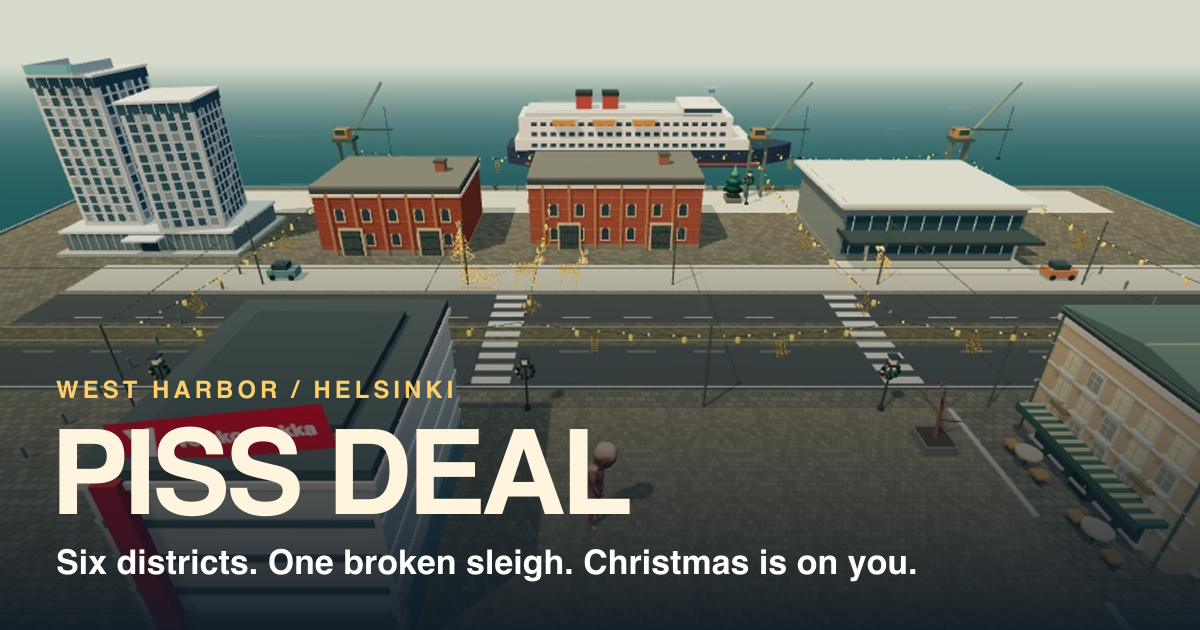
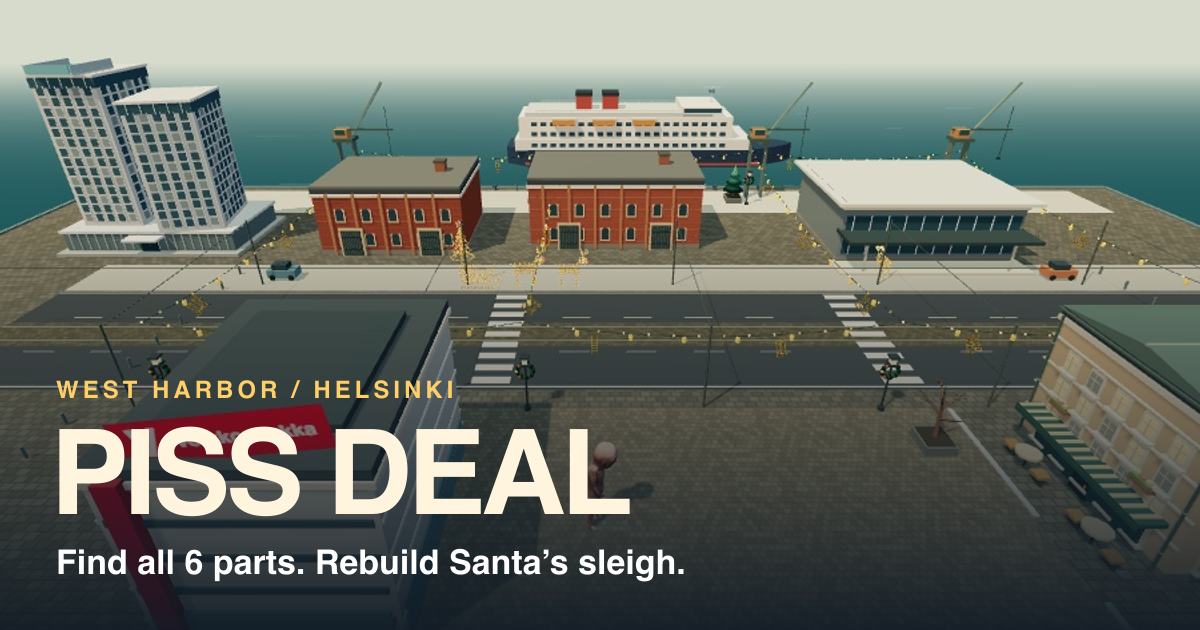
Explain the six-part sleigh hunt on both share cards

Changed region(s): [[0.0308, 0.8746, 0.7708, 0.9349]]

diff --git a/index.html b/index.html
@@ -5,21 +5,21 @@
     <meta name="viewport" content="width=device-width, initial-scale=1, maximum-scale=1, user-scalable=no, viewport-fit=cover" />
     <meta name="theme-color" content="#12151f" />
     <title>Piss Deal</title>
-    <meta name="description" content="Bad Bad Boy is loose in Helsinki. Rebuild Santa’s sleigh and run through the city in this winter arcade game." />
+    <meta name="description" content="Find all 6 parts. Rebuild Santa’s sleigh." />
     <link rel="canonical" href="https://bekharsky.github.io/piss-deal/" />
     <meta property="og:type" content="website" />
     <meta property="og:site_name" content="Piss Deal" />
     <meta property="og:title" content="Piss Deal — Bad Bad Boy in Helsinki" />
-    <meta property="og:description" content="Rebuild Santa’s sleigh and run through a snowy Helsinki in this cheeky arcade game." />
+    <meta property="og:description" content="Find all 6 parts. Rebuild Santa’s sleigh." />
     <meta property="og:url" content="https://bekharsky.github.io/piss-deal/" />
-    <meta property="og:image" content="https://bekharsky.github.io/piss-deal/share-card.png" />
+    <meta property="og:image" content="https://bekharsky.github.io/piss-deal/share-card.png?v=4" />
     <meta property="og:image:type" content="image/png" />
     <meta property="og:image:width" content="1200" />
     <meta property="og:image:height" content="630" />
     <meta name="twitter:card" content="summary_large_image" />
     <meta name="twitter:title" content="Piss Deal — Bad Bad Boy in Helsinki" />
-    <meta name="twitter:description" content="Rebuild Santa’s sleigh and run through a snowy Helsinki in this cheeky arcade game." />
-    <meta name="twitter:image" content="https://bekharsky.github.io/piss-deal/share-card.png" />
+    <meta name="twitter:description" content="Find all 6 parts. Rebuild Santa’s sleigh." />
+    <meta name="twitter:image" content="https://bekharsky.github.io/piss-deal/share-card.png?v=4" />
     <link rel="stylesheet" href="./style.css" />
     <!-- Cloudflare Web Analytics -->
     <script type="module" src="https://static.cloudflareinsights.com/beacon.min.js" data-cf-beacon='{"token": "48491b7e51fb426c8073f7b32b32b500"}'></script>
@@ -170,7 +170,7 @@
             <svg aria-hidden="true" focusable="false"><use href="#speaker-off" /></svg>
           </button>
           <h1 aria-label="Piss Deal">PISS <span class="title-accent">DEAL</span></h1>
-          <p class="campaign-brief">Rebuild Joulupukki’s sleigh, one part per district.</p>
+          <p class="campaign-brief">Find all 6 parts. Rebuild Santa’s sleigh.</p>
           <div class="profile-row">
             <label class="player-profile" for="player-name">
               <span>PLAYER NAME</span>

diff --git a/share.js b/share.js
@@ -69,7 +69,7 @@ export function bindShareButtons({ gameButton, gameStatus, scoreButton, scoreSta
     try {
       await shareOrCopy({
         title: 'Piss Deal',
-        text: 'Bad Bad Boy is loose in Helsinki. Play Piss Deal!',
+        text: 'Find all 6 parts. Rebuild Santa’s sleigh.',
         url: GAME_URL,
       }, GAME_URL, gameStatus, 'Game link copied.');
     } finally {
@@ -99,7 +99,7 @@ export function bindShareButtons({ gameButton, gameStatus, scoreButton, scoreSta
         }
       }
 
-      const message = `${result.nickname} scored ${result.score.toLocaleString()} points in Piss Deal. Can you beat this?`;
+      const message = `${result.nickname} scored ${result.score.toLocaleString()} points in Piss Deal. Find all 6 parts. Rebuild Santa’s sleigh.`;
       await shareOrCopy({
         title: `${result.score.toLocaleString()} points in Piss Deal`,
         text: message,
@@ -114,7 +114,7 @@ export function bindShareButtons({ gameButton, gameStatus, scoreButton, scoreSta
         if (navigator.share) {
           await navigator.share({
             title: `${result.score.toLocaleString()} points in Piss Deal`,
-            text: `${result.nickname} scored ${result.score.toLocaleString()} points in Piss Deal. Can you beat this?`,
+            text: `${result.nickname} scored ${result.score.toLocaleString()} points in Piss Deal. Find all 6 parts. Rebuild Santa’s sleigh.`,
             url: fallbackUrl,
           });
         } else {

diff --git a/worker/index.js b/worker/index.js
@@ -120,10 +120,10 @@ async function serveScoreShare(request, env, id) {
   if (!result) return new Response('Score share not found.', { status: 404 });
 
   const pageUrl = new URL(`/share/${id}`, request.url).href;
-  const imageUrl = `${pageUrl}/card.png?v=3`;
+  const imageUrl = `${pageUrl}/card.png?v=4`;
   const formattedScore = Number(result.score).toLocaleString('en');
   const title = `${formattedScore} points in Piss Deal`;
-  const description = `${result.nickname} scored ${formattedScore} points in Piss Deal. Can you beat this?`;
+  const description = `${result.nickname} scored ${formattedScore} points in Piss Deal. Find all 6 parts. Rebuild Santa’s sleigh.`;
 
   if (new URL(request.url).pathname.endsWith('/card.png')) {
     try {

diff --git a/worker/share-card.js b/worker/share-card.js
@@ -16,7 +16,7 @@ export async function renderScoreCard({ nickname, score, wave }) {
     <g font-family="Barlow Condensed" font-weight="700">
     <text x="56" y="388" font-size="34" fill="#ffcf69">PISS DEAL  /  ${name}  /  DISTRICT ${wave}</text>
     <text x="52" y="516" font-size="112" fill="#fff5de">${points} POINTS</text>
-    <text x="56" y="577" font-size="42" fill="white">Your turn, Helsinki. Beat that run.</text></g></svg>`;
+    <text x="56" y="577" font-size="42" fill="white">Find all 6 parts. Rebuild Santa’s sleigh.</text></g></svg>`;
   const renderer = new Resvg(svg, {font:{fontBuffers:[new Uint8Array(font)]}});
   try {
     const image = renderer.render();
